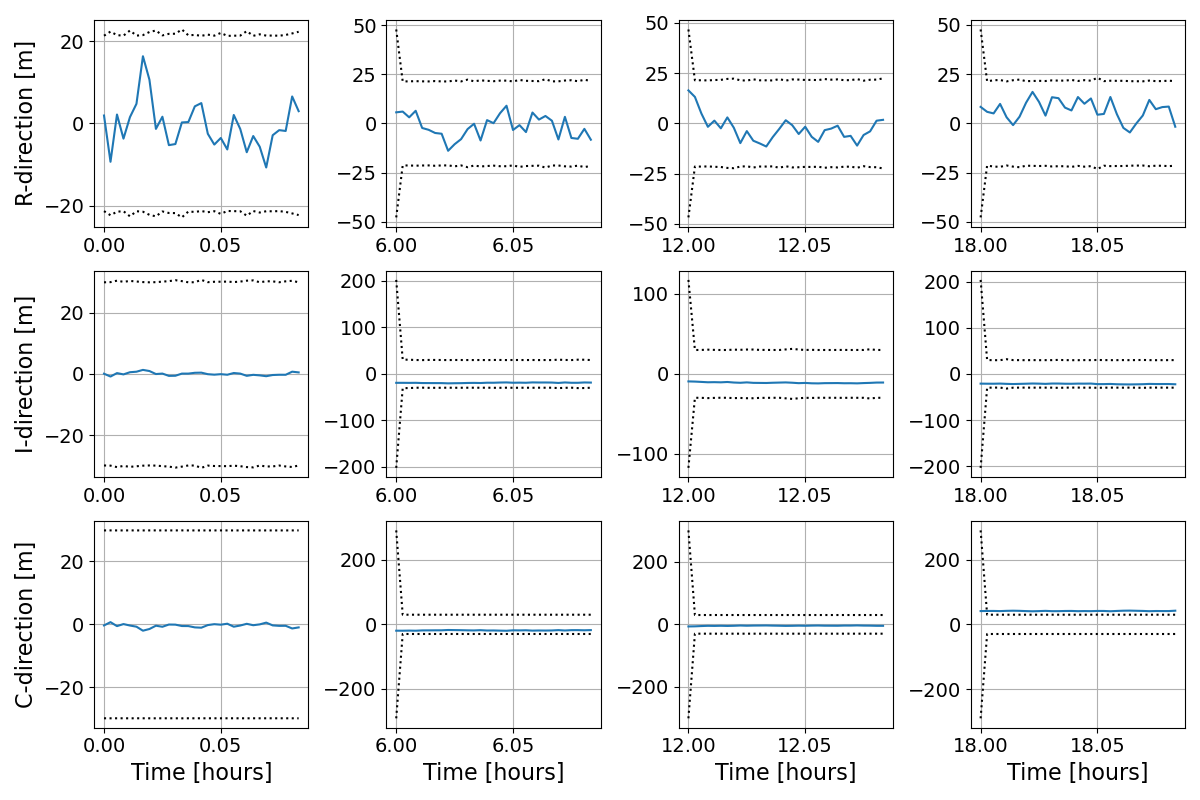
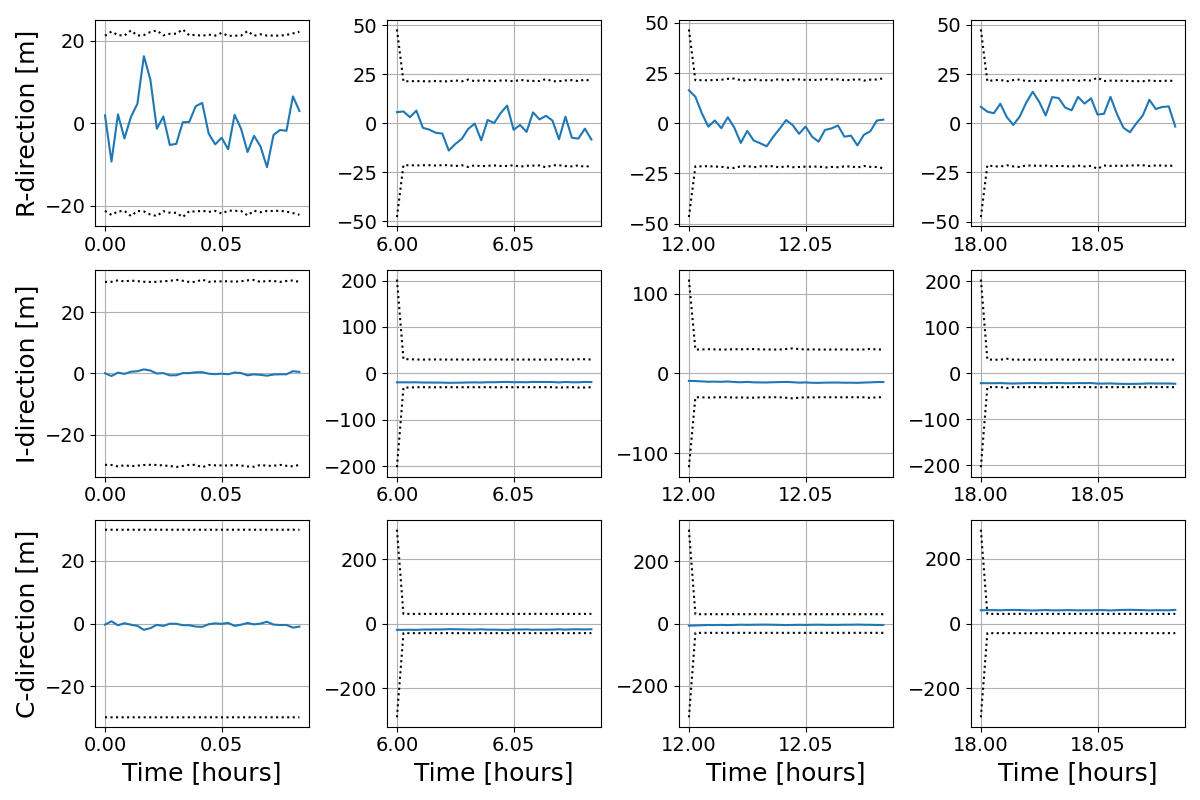
Last commit

diff --git a/question_2.py b/question_2.py
@@ -92,6 +92,18 @@ def analysis(truth_state, state, meas,
 
     RMS_pos = np.sqrt(np.sum(error[:, 0:3]**2)/len(time))
     RMS_vel = np.sqrt(np.sum(error[:, 3:6]**2)/len(time))
+    if mtype == 'opt':
+        RMS_RA = np.sqrt(np.sum((resid[:, 0]*rad2arcsec) ** 2) / len(time))
+        RMS_DEC = np.sqrt(np.sum((resid[:, 1]*rad2arcsec) ** 2) / len(time))
+        print(RMS_RA)
+        print(RMS_DEC)
+    if mtype == 'rad':
+        RMS_range = np.sqrt(np.sum(resid[:, 0] ** 2) / len(time))
+        RMS_RA = np.sqrt(np.sum((resid[:, 1]*rad2arcsec) ** 2) / len(time))
+        RMS_DEC = np.sqrt(np.sum((resid[:, 2]*rad2arcsec) ** 2) / len(time))
+        print(RMS_range)
+        print(RMS_RA)
+        print(RMS_DEC)
 
     if plotting:
         plt.rc('axes', titlesize=16)  # fontsize of the axes title
@@ -125,7 +137,7 @@ def analysis(truth_state, state, meas,
         ax1.plot(time_rel[:31], sigma_bound_pos[:31, 0], 'k:')
         ax1.plot(time_rel[:31], -sigma_bound_pos[:31, 0], 'k:')
         ax1.grid()
-        ax1.set_ylabel('R-direction [m]', size=16)
+        ax1.set_ylabel('R-direction [m]', size=18)
         ax2.plot(time_rel[31:62], error_ric[31:62, 0])
         ax2.plot(time_rel[31:62], sigma_bound_pos[31:62, 0], 'k:')
         ax2.plot(time_rel[31:62], -sigma_bound_pos[31:62, 0], 'k:')
@@ -140,7 +152,7 @@ def analysis(truth_state, state, meas,
         ax4.grid()
         # I direction
         ax5.plot(time_rel[:31], error_ric[:31, 1])
-        ax5.set_ylabel('I-direction [m]', size=16)
+        ax5.set_ylabel('I-direction [m]', size=18)
         ax5.plot(time_rel[:31], sigma_bound_pos[:31, 4], 'k:')
         ax5.plot(time_rel[:31], -sigma_bound_pos[:31, 4], 'k:')
         ax5.grid()
@@ -160,23 +172,23 @@ def analysis(truth_state, state, meas,
         ax9.plot(time_rel[:31], error_ric[:31, 2])
         ax9.plot(time_rel[:31], sigma_bound_pos[:31, 8], 'k:')
         ax9.plot(time_rel[:31], -sigma_bound_pos[:31, 8], 'k:')
-        ax9.set_ylabel('C-direction [m]', size=16)
-        ax9.set_xlabel('Time [hours]', size=16)
+        ax9.set_ylabel('C-direction [m]', size=18)
+        ax9.set_xlabel('Time [hours]', size=18)
         ax9.grid()
         ax10.plot(time_rel[31:62], error_ric[31:62, 2])
         ax10.plot(time_rel[31:62], sigma_bound_pos[31:62, 8], 'k:')
         ax10.plot(time_rel[31:62], -sigma_bound_pos[31:62, 8], 'k:')
-        ax10.set_xlabel('Time [hours]', size=16)
+        ax10.set_xlabel('Time [hours]', size=18)
         ax10.grid()
         ax11.plot(time_rel[62:93], error_ric[62:93, 2])
         ax11.plot(time_rel[62:93], sigma_bound_pos[62:93, 8], 'k:')
         ax11.plot(time_rel[62:93], -sigma_bound_pos[62:93, 8], 'k:')
-        ax11.set_xlabel('Time [hours]', size=16)
+        ax11.set_xlabel('Time [hours]', size=18)
         ax11.grid()
         ax12.plot(time_rel[93:], error_ric[93:, 2])
         ax12.plot(time_rel[93:], sigma_bound_pos[93:, 8], 'k:')
         ax12.plot(time_rel[93:], -sigma_bound_pos[93:, 8], 'k:')
-        ax12.set_xlabel('Time [hours]', size=16)
+        ax12.set_xlabel('Time [hours]', size=18)
         ax12.grid()
         plt.tight_layout()
         plt.savefig('plots/' + name + '_error_sparse.png')
@@ -189,7 +201,7 @@ def analysis(truth_state, state, meas,
             # R direction
             ax1.scatter(time_rel[:31], resid[:31, 0])
             ax1.grid()
-            ax1.set_ylabel('Range [m]', size=16)
+            ax1.set_ylabel('Range [m]', size=18)
             ax2.scatter(time_rel[31:62], resid[31:62, 0])
             ax2.grid()
             ax3.scatter(time_rel[62:93], resid[62:93, 0])
@@ -198,7 +210,7 @@ def analysis(truth_state, state, meas,
             ax4.grid()
             # I direction
             ax5.scatter(time_rel[:31], resid[:31, 1]*rad2arcsec)
-            ax5.set_ylabel('RA [arcsec]', size=16)
+            ax5.set_ylabel('RA [arcsec]', size=18)
             ax5.grid()
             ax6.scatter(time_rel[31:62], resid[31:62, 1]*rad2arcsec)
             ax6.grid()
@@ -208,17 +220,17 @@ def analysis(truth_state, state, meas,
             ax8.grid()
             # C direction
             ax9.scatter(time_rel[:31], resid[:31, 2]*rad2arcsec)
-            ax9.set_ylabel('DEC [arcsec]', size=16)
-            ax9.set_xlabel('Time [hours]', size=16)
+            ax9.set_ylabel('DEC [arcsec]', size=18)
+            ax9.set_xlabel('Time [hours]', size=18)
             ax9.grid()
             ax10.scatter(time_rel[31:62], resid[31:62, 2]*rad2arcsec)
-            ax10.set_xlabel('Time [hours]', size=16)
+            ax10.set_xlabel('Time [hours]', size=18)
             ax10.grid()
             ax11.scatter(time_rel[62:93], resid[62:93, 2]*rad2arcsec)
-            ax11.set_xlabel('Time [hours]', size=16)
+            ax11.set_xlabel('Time [hours]', size=18)
             ax11.grid()
             ax12.scatter(time_rel[93:], resid[93:, 2]*rad2arcsec)
-            ax12.set_xlabel('Time [hours]', size=16)
+            ax12.set_xlabel('Time [hours]', size=18)
             ax12.grid()
             plt.tight_layout()
             plt.savefig('plots/' + name + '_residuals.png')
@@ -229,7 +241,7 @@ def analysis(truth_state, state, meas,
                 2, 4, figsize=(16, 10))
             # R direction
             ax1.scatter(time_rel[:31], resid[:31, 0] * rad2arcsec )
-            ax1.set_ylabel('RA (arcsec)', size=18)
+            ax1.set_ylabel('RA [arcsec]', size=18)
             ax1.grid()
             ax2.scatter(time_rel[31:62], resid[31:62, 0] * rad2arcsec)
             ax2.grid()
@@ -239,11 +251,11 @@ def analysis(truth_state, state, meas,
             ax4.grid()
             # I direction
             ax5.scatter(time_rel[:31], resid[:31, 1] * rad2arcsec)
-            ax5.set_ylabel('DEC (arcsec)', size=18)
+            ax5.set_ylabel('DEC [arcsec]', size=18)
             ax5.set_xlabel('Time [hours]', size=18)
             ax5.grid()
             ax6.scatter(time_rel[31:62], resid[31:62, 1] * rad2arcsec)
-            ax6.set_xlabel('Time [hours]', size=16)
+            ax6.set_xlabel('Time [hours]', size=18)
             ax6.grid()
             ax7.scatter(time_rel[62:93], resid[62:93, 1] * rad2arcsec)
             ax7.set_xlabel('Time [hours]', size=18)
@@ -259,36 +271,36 @@ def analysis(truth_state, state, meas,
 
 # Radar A
 # Set process noise
-Qeci = 0 * np.diag([1., 1., 1.])
-Qric = 8e-15 * np.diag([1., 1., 1.])
-alpha = 1e-4                            # to tune (in range [1e-4, 1])
-filter_params = {
-    'Qeci': Qeci,
-    'Qric': Qric,
-    'alpha': alpha,
-    'gap_seconds': gap_seconds
-}
-rms_rad_pos_a, rms_rad_vel_a = analysis(
-    state_truth_a, state_rad_a, meas_rad_a, sensor_params_rad_a,
-    int_params, filter_params, t_rad_a, 'radar_a', 'rad', 1)
-print(rms_rad_pos_a)
-print(rms_rad_vel_a)
+# Qeci = 0 * np.diag([1., 1., 1.])
+# Qric = 8e-15 * np.diag([1., 1., 1.])
+# alpha = 1e-4                            # to tune (in range [1e-4, 1])
+# filter_params = {
+#     'Qeci': Qeci,
+#     'Qric': Qric,
+#     'alpha': alpha,
+#     'gap_seconds': gap_seconds
+# }
+# rms_rad_pos_a, rms_rad_vel_a = analysis(
+#     state_truth_a, state_rad_a, meas_rad_a, sensor_params_rad_a,
+#     int_params, filter_params, t_rad_a, 'radar_a', 'rad', 1)
+# print(rms_rad_pos_a)
+# print(rms_rad_vel_a)
 # # Optical A
 # Set process noise
-Qeci = 0 * np.diag([1., 1., 1.])
-Qric = 5e-15 * np.diag([20., 1., 1.])
-alpha = 1e-3                            # to tune (in range [1e-4, 1])
-filter_params = {
-    'Qeci': Qeci,
-    'Qric': Qric,
-    'alpha': alpha,
-    'gap_seconds': gap_seconds
-}
-rms_opt_pos_a, rms_opt_vel_a = analysis(
-    state_truth_a, state_opt_a, meas_opt_a, sensor_params_opt_a,
-    int_params, filter_params, t_opt_a, 'optical_a', 'opt', 1)
-print(rms_opt_pos_a)
-print(rms_opt_vel_a)
+# Qeci = 1e-9 * np.diag([1., 1., 1.])
+# Qric = 0 * np.diag([20., 1., 1.])
+# alpha = 1e-4                            # to tune (in range [1e-4, 1])
+# filter_params = {
+#     'Qeci': Qeci,
+#     'Qric': Qric,
+#     'alpha': alpha,
+#     'gap_seconds': gap_seconds
+# }
+# rms_opt_pos_a, rms_opt_vel_a = analysis(
+#     state_truth_a, state_opt_a, meas_opt_a, sensor_params_opt_a,
+#     int_params, filter_params, t_opt_a, 'optical_a', 'opt', 1)
+# print(rms_opt_pos_a)
+# print(rms_opt_vel_a)
 
 # Radar B
 # Set process noise
@@ -308,20 +320,20 @@ print(rms_rad_pos_b)
 print(rms_rad_vel_b)
 # Optical B
 # Set process noise
-Qeci = 0 * np.diag([1., 1., 1.])
-Qric = 5e-14 * np.diag([1., 1., 1.])
-alpha = 1e-1                            # to tune (in range [1e-4, 1])
-filter_params = {
-    'Qeci': Qeci,
-    'Qric': Qric,
-    'alpha': alpha,
-    'gap_seconds': gap_seconds
-}
-rms_opt_pos_b, rms_opt_vel_b = analysis(
-    state_truth_b, state_opt_b, meas_opt_b, sensor_params_opt_b,
-    int_params, filter_params, t_opt_b, 'optical_b', 'opt', 1)
-print(rms_opt_pos_b)
-print(rms_opt_vel_b)
+# Qeci = 0 * np.diag([1., 1., 1.])
+# Qric = 5e-14 * np.diag([1., 1., 1.])
+# alpha = 1e-1                            # to tune (in range [1e-4, 1])
+# filter_params = {
+#     'Qeci': Qeci,
+#     'Qric': Qric,
+#     'alpha': alpha,
+#     'gap_seconds': gap_seconds
+# }
+# rms_opt_pos_b, rms_opt_vel_b = analysis(
+#     state_truth_b, state_opt_b, meas_opt_b, sensor_params_opt_b,
+#     int_params, filter_params, t_opt_b, 'optical_b', 'opt', 1)
+# print(rms_opt_pos_b)
+# print(rms_opt_vel_b)
 
 # OPTIMAL VALUES
 
